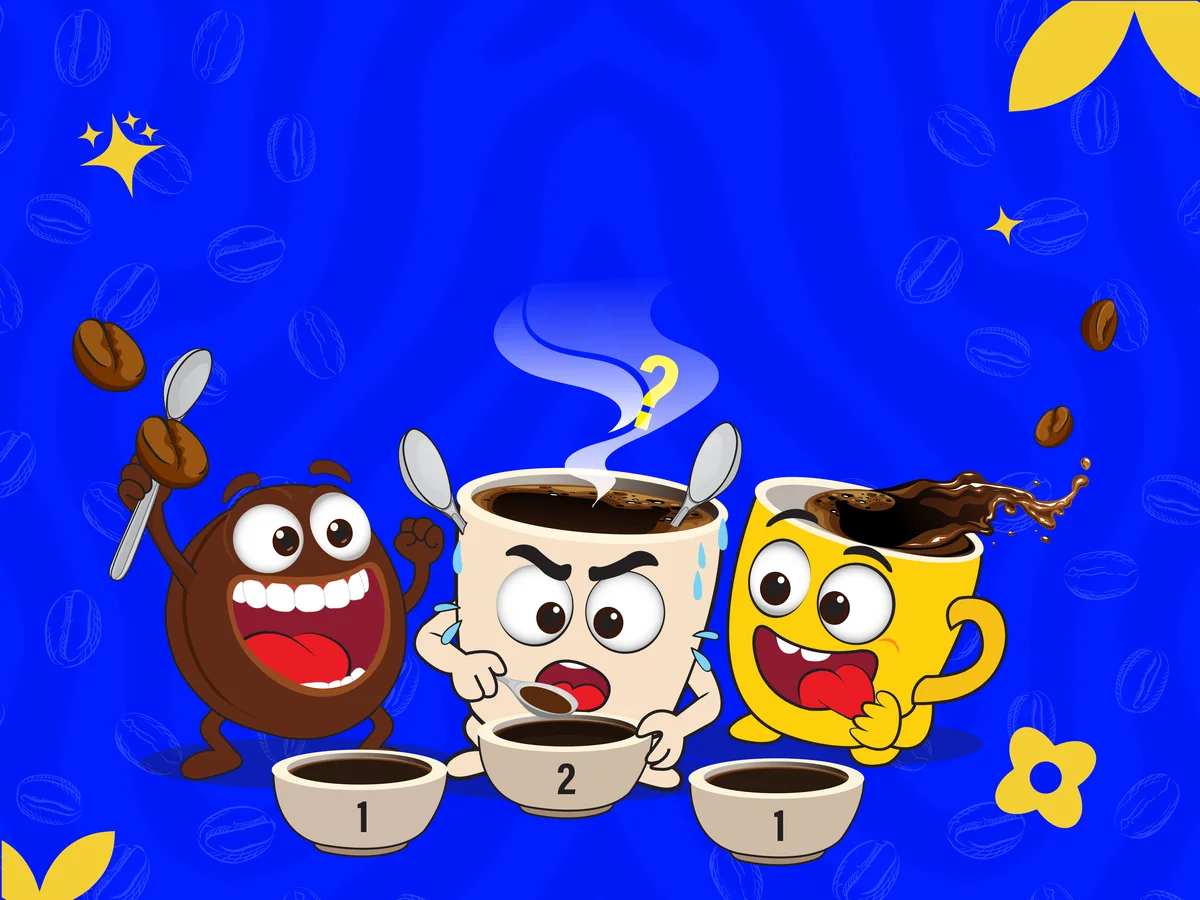
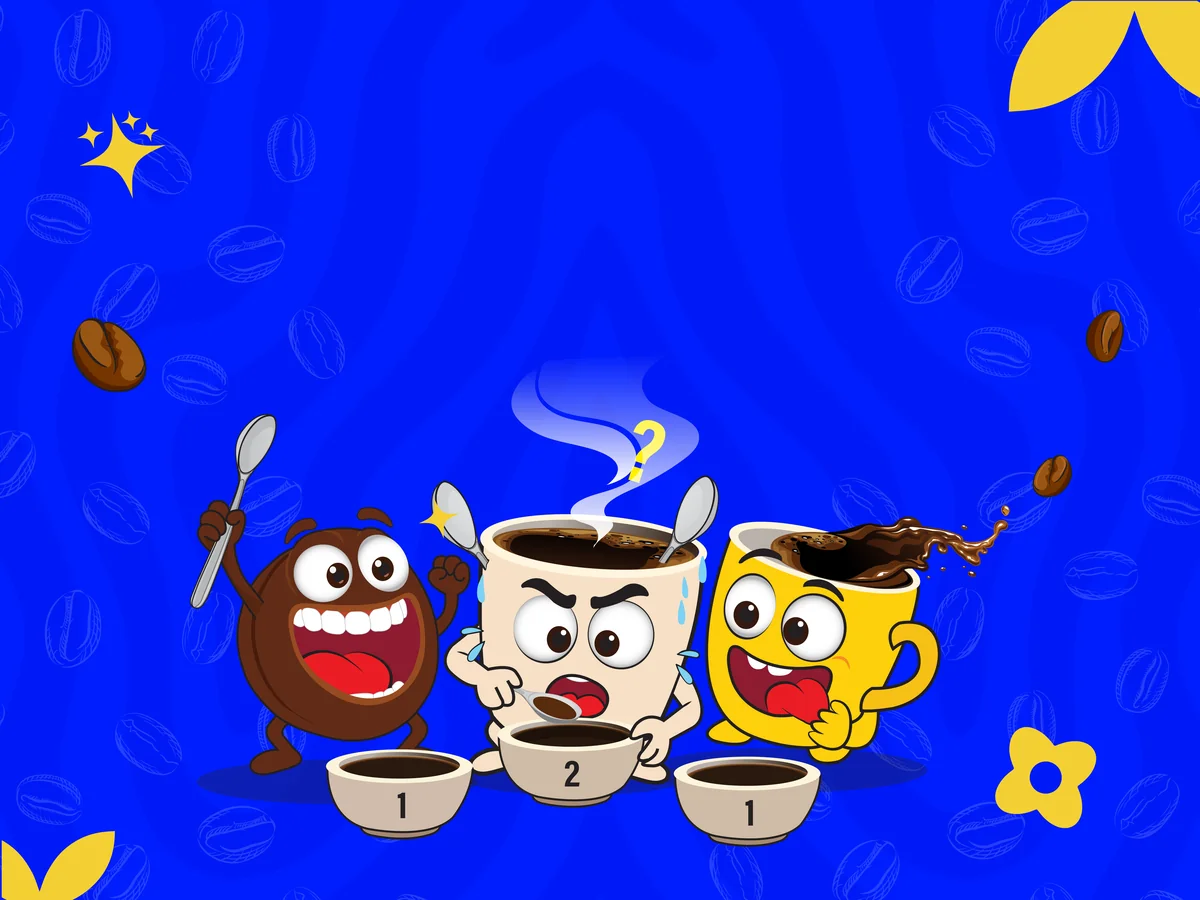
refactor(media): refactor media

Changed region(s): [[0.0925, 0.3111, 0.925, 0.9644], [0.8942, 0.3111, 0.9558, 0.4044], [0.8325, 0.2178, 0.8633, 0.28]]

diff --git a/src/components/ChampionFeature.tsx b/src/components/ChampionFeature.tsx
@@ -82,7 +82,7 @@ export function NextChampionFigure() {
         >
           ?
         </motion.span>
-        <p className="headline relative mt-1 text-[clamp(1.9rem,4.4vw,3.3rem)] text-white headline-shadow">
+        <p className="headline relative mt-1 text-[clamp(1.6rem,3.8vw,2.8rem)] text-white headline-shadow">
           It can be <span className="text-yellow">you!</span>
         </p>
       </div>
